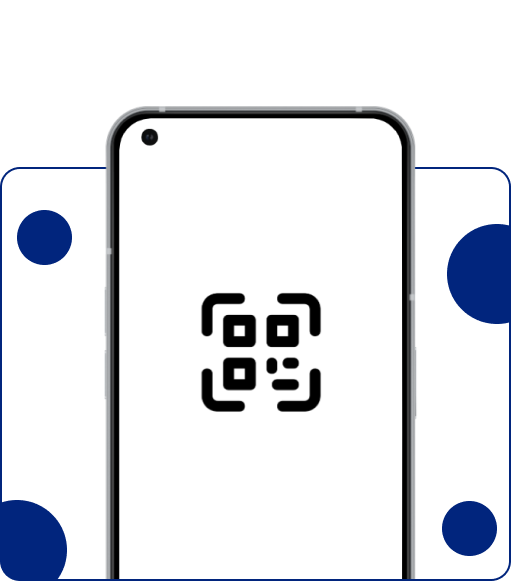
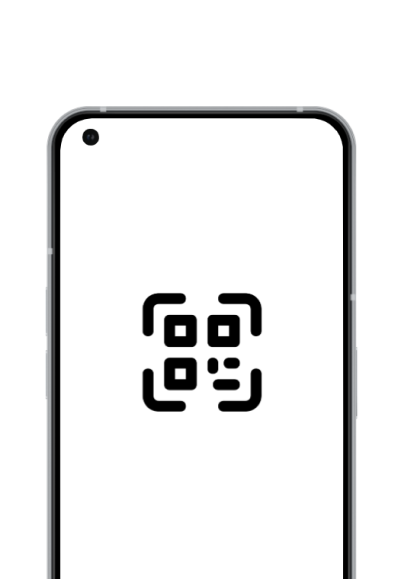
demo main page

Changed region(s): [[0.0, 0.1554, 1.0, 1.0], [0.3292, 0.4974, 0.6584, 0.715]]

diff --git a/src/pages/Main.vue b/src/pages/Main.vue
@@ -6,7 +6,8 @@ import fakerIMG from '../assets/images/faker.png'
 import imgConvertorIMG from '../assets/images/img-convertor.png'
 import imgResizerIMG from '../assets/images/img-resizer.png'
 import qrCodeIMG from '../assets/images/qr-code.png'
-import frameIMG from '../assets/images/frame.png'
+import frameIMG from '../assets/images/mainpage/frame.svg'
+import qrcodePhoneIMG from '../assets/images/mainpage/qrcode-phone.png'
 
 </script>
 
@@ -48,7 +49,10 @@ import frameIMG from '../assets/images/frame.png'
                                 <div class="tools__item-text">BG remover</div>
                             </RouterLink>
                         </div>
-                        <img :src="frameIMG" alt="" class="main__tools-img">
+                        <div class="main__tools-img">
+                            <img :src="frameIMG" alt="frame" class="main__tools-frame">
+                            <img :src="qrcodePhoneIMG" alt="" class="main__tools-qrcodePhone">
+                        </div>
                     </div>
                 </div>
             </div>
@@ -103,10 +107,6 @@ import frameIMG from '../assets/images/frame.png'
 
         cursor: pointer;
     }
-
-    .tools__item-img {
-        width: 147;
-    }
     
     .tools__item-text {
         font-size: 24px;
@@ -136,5 +136,16 @@ import frameIMG from '../assets/images/frame.png'
     
     .main__welcome-text {
         margin-top: 24px;
+    }
+
+    .main__tools-img {
+        position: relative;
+    }
+
+    .main__tools-qrcodePhone {
+        position: absolute;
+        z-index: 99;
+        top: -167px;
+        right: 50px;
     }
 </style>
